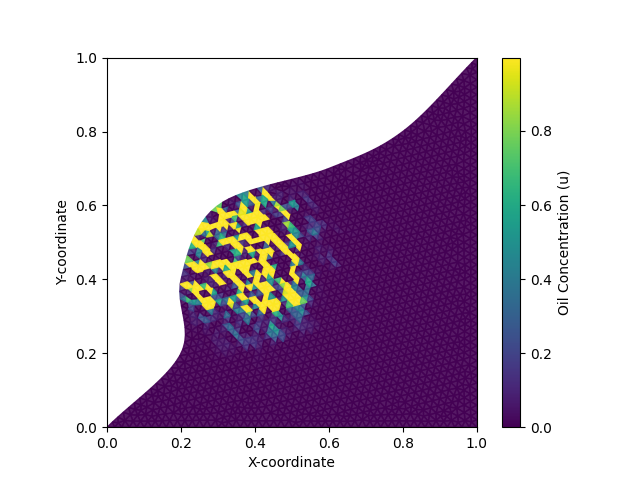
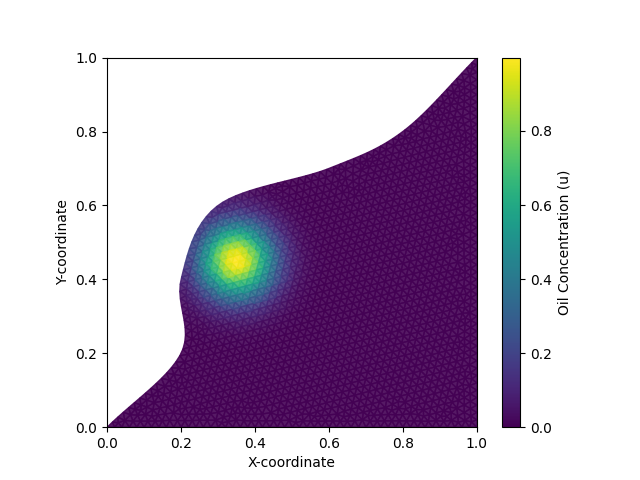
fault lies in how normals are stored, normals claculated but is not stored as a dictionary

Changed region(s): [[0.2812, 0.375, 0.5, 0.75], [0.5, 0.5312, 0.5312, 0.5625]]

diff --git a/msh_classes.py b/msh_classes.py
@@ -77,12 +77,14 @@ class Line(Cell): #line class, parent class: cell
 
 class Triangle(Cell): #triangle class, parent class: cell
     #finds neighbors and corresponding scaled normal vectors, and stores in list
+
     def store_neighbors(self, all_cells):
         for other_cell in all_cells: #checks all cells in mesh
             if self._cell_index != other_cell._cell_index: #checks diff. cell
                 shared_points = set(self._cell_points_id) & set(other_cell._cell_points_id) #hashes for pair points of cells
                 if len(shared_points) == 2: #if equal to 2 shared points, the othe cell is a neighbor
-                    self._neighbors.append(other_cell) #adds to list
+                    shared_points=list(shared_points)
+                    self._neighbors.append({other_cell: shared_points}) #adds to list
     
     def scaled_normals(self):
         pointer1 = [0,1,2]
@@ -101,38 +103,25 @@ class Triangle(Cell): #triangle class, parent class: cell
             if np.dot(orthonormal,check_vector)<0:
                 scaled_normals = np.flip(scaled_normals)
             
-            self._scaled_normals.append(scaled_normals)
-
+            for k, ngh in enumerate(self._neighbors):
+                if np.isin(self._cell_points_id[i], np.ravel(ngh.values())) and np.isin(self._cell_points_id[j], np.ravel(ngh.values())):
+                    self._scaled_normals.append({list(ngh.keys())[k]: scaled_normals})
+                    print({list(ngh.keys())[k]: scaled_normals})
+                    
+            
 
 
     def __str__(self): #prints info
-        return f"Triangle {self._original_index}, Midpoint: {self._midpoint} Normals:{self._scaled_normals}"
+        return f"Triangle {self._original_index}, Oil: {self.get_amount_of_oil()} Normals:{self._scaled_normals} Neighbors:{self._neighbors} Velocity:{self.get_flowfield()}"
     
-    def point_in_cell(self, x, y, mesh_points):
-        x1,y1 = self._coordinates[0]
-        x2,y2 = self._coordinates[1]
-        x3,y3 = self._coordinates[2]
-
-        def crossproduct(x1,y1,x2,y2,x3,y3):
-            return (x2-x1)*(y3-y1) - (y2-y1)*(x3-x1)
-        
-        d1 = crossproduct(x,y, x1,y1, x2,y2)
-        d2 = crossproduct(x,y, x1,y1, x3,y3)
-        d3 = crossproduct(x,y, x2,y2, x3,y3)
-
-        pos = (d1<0) or (d2<0) or (d3<0)
-        neg = (d1>0) or (d2>0) or (d3>0)
-
-        return not (pos and neg)
-    
-    def area(self, mesh_points):
+    def area(self):
         x1,y1 = self._coordinates[0]
         x2,y2 = self._coordinates[1]
         x3,y3 = self._coordinates[2]
 
         self._area = 0.5 * np.abs((x1 - x3) * (y2 - y1) - (x1 - x2) * (y3 - y1))
 
-    def midpoint(self, mesh_points):
+    def midpoint(self):
         x1,y1 = self._coordinates[0]
         x2,y2 = self._coordinates[1]
         x3,y3 = self._coordinates[2]
@@ -143,19 +132,22 @@ class Triangle(Cell): #triangle class, parent class: cell
         x1, y1 = self._midpoint
         vector = np.array([x1-x, y1-y])
         norm = np.linalg.norm(vector)
+        
         self._u = np.exp(-(norm**2/0.01))
     
     def v(self):
         x, y = self._midpoint 
+        
         self._v = np.array([y-0.2*x, -x])
 
-    def up(self, delta_t):
+    def up(self, delta_t, mesh_cells):
         up = 0
-        for ngh, normal in zip(self._neighbors, self._scaled_normals):
+        for i, (ngh, ngh_norm) in enumerate(zip(self._neighbors, self._scaled_normals)):
             if isinstance(ngh, Line):
                 continue
-            v = 0.5 * (self._v + ngh.get_flowfield())
-            up += up - delta_t / self._area * flux(self._u, ngh.get_amount_of_oil(), normal, v)
+            v = 0.5 * (self._v + list(ngh.keys())[i]._v)
+            up += up - delta_t / self._area * flux(self._u,list(ngh.keys())[i]._u, list(ngh_norm.keys())[i], v)
+        
         self._u = self._u + up
         
 def flux(u_i, u_ngh, norm, v):
@@ -195,50 +187,47 @@ class Mesh:
     
     def store_coordinates(self):
         for cell in self._cells:
+            
             cell.get_point_coord(self._points)
     
     def find_neighbors(self):
         """Find neighbors for cells"""
         for cell in self._cells:
+            
             cell.store_neighbors(self._cells)
-    
-    def point_in_triangle(self, x,y):
-        for cell in self._cells:
-            if isinstance(cell, Triangle):
-                if cell.point_in_cell(x,y, self._points):
-                    return cell
     
     def store_area(self):
         for cell in self._cells:
             if isinstance(cell, Triangle):
-                cell.area(self._points)
+                
+                cell.area()
     
     def store_midpoint(self):
         for cell in self._cells:
             if isinstance(cell, Triangle):
-                cell.midpoint(self._points)
+                
+                cell.midpoint()
         
     def initial_oil(self, x, y):
         for cell in self._cells:
             if isinstance(cell, Triangle):
+                
                 cell.u_0(x,y)
     
     def flow_vector(self):
         for cell in self._cells:
             if isinstance(cell, Triangle):
+                
                 cell.v()
     
     def update_oil(self, delta_t):
         for cell in self._cells:
             if isinstance(cell, Triangle):
-                cell.up(delta_t)
-
-
-    def __str__(self):
-        """Print neighbor info"""
-        return "\n".join(str(cell) for cell in self._cells)
+                
+                cell.up(delta_t, self._cells)
     
     def normal(self):
         for cell in self._cells:
             if isinstance(cell, Triangle):
+                
                 cell.scaled_normals()
